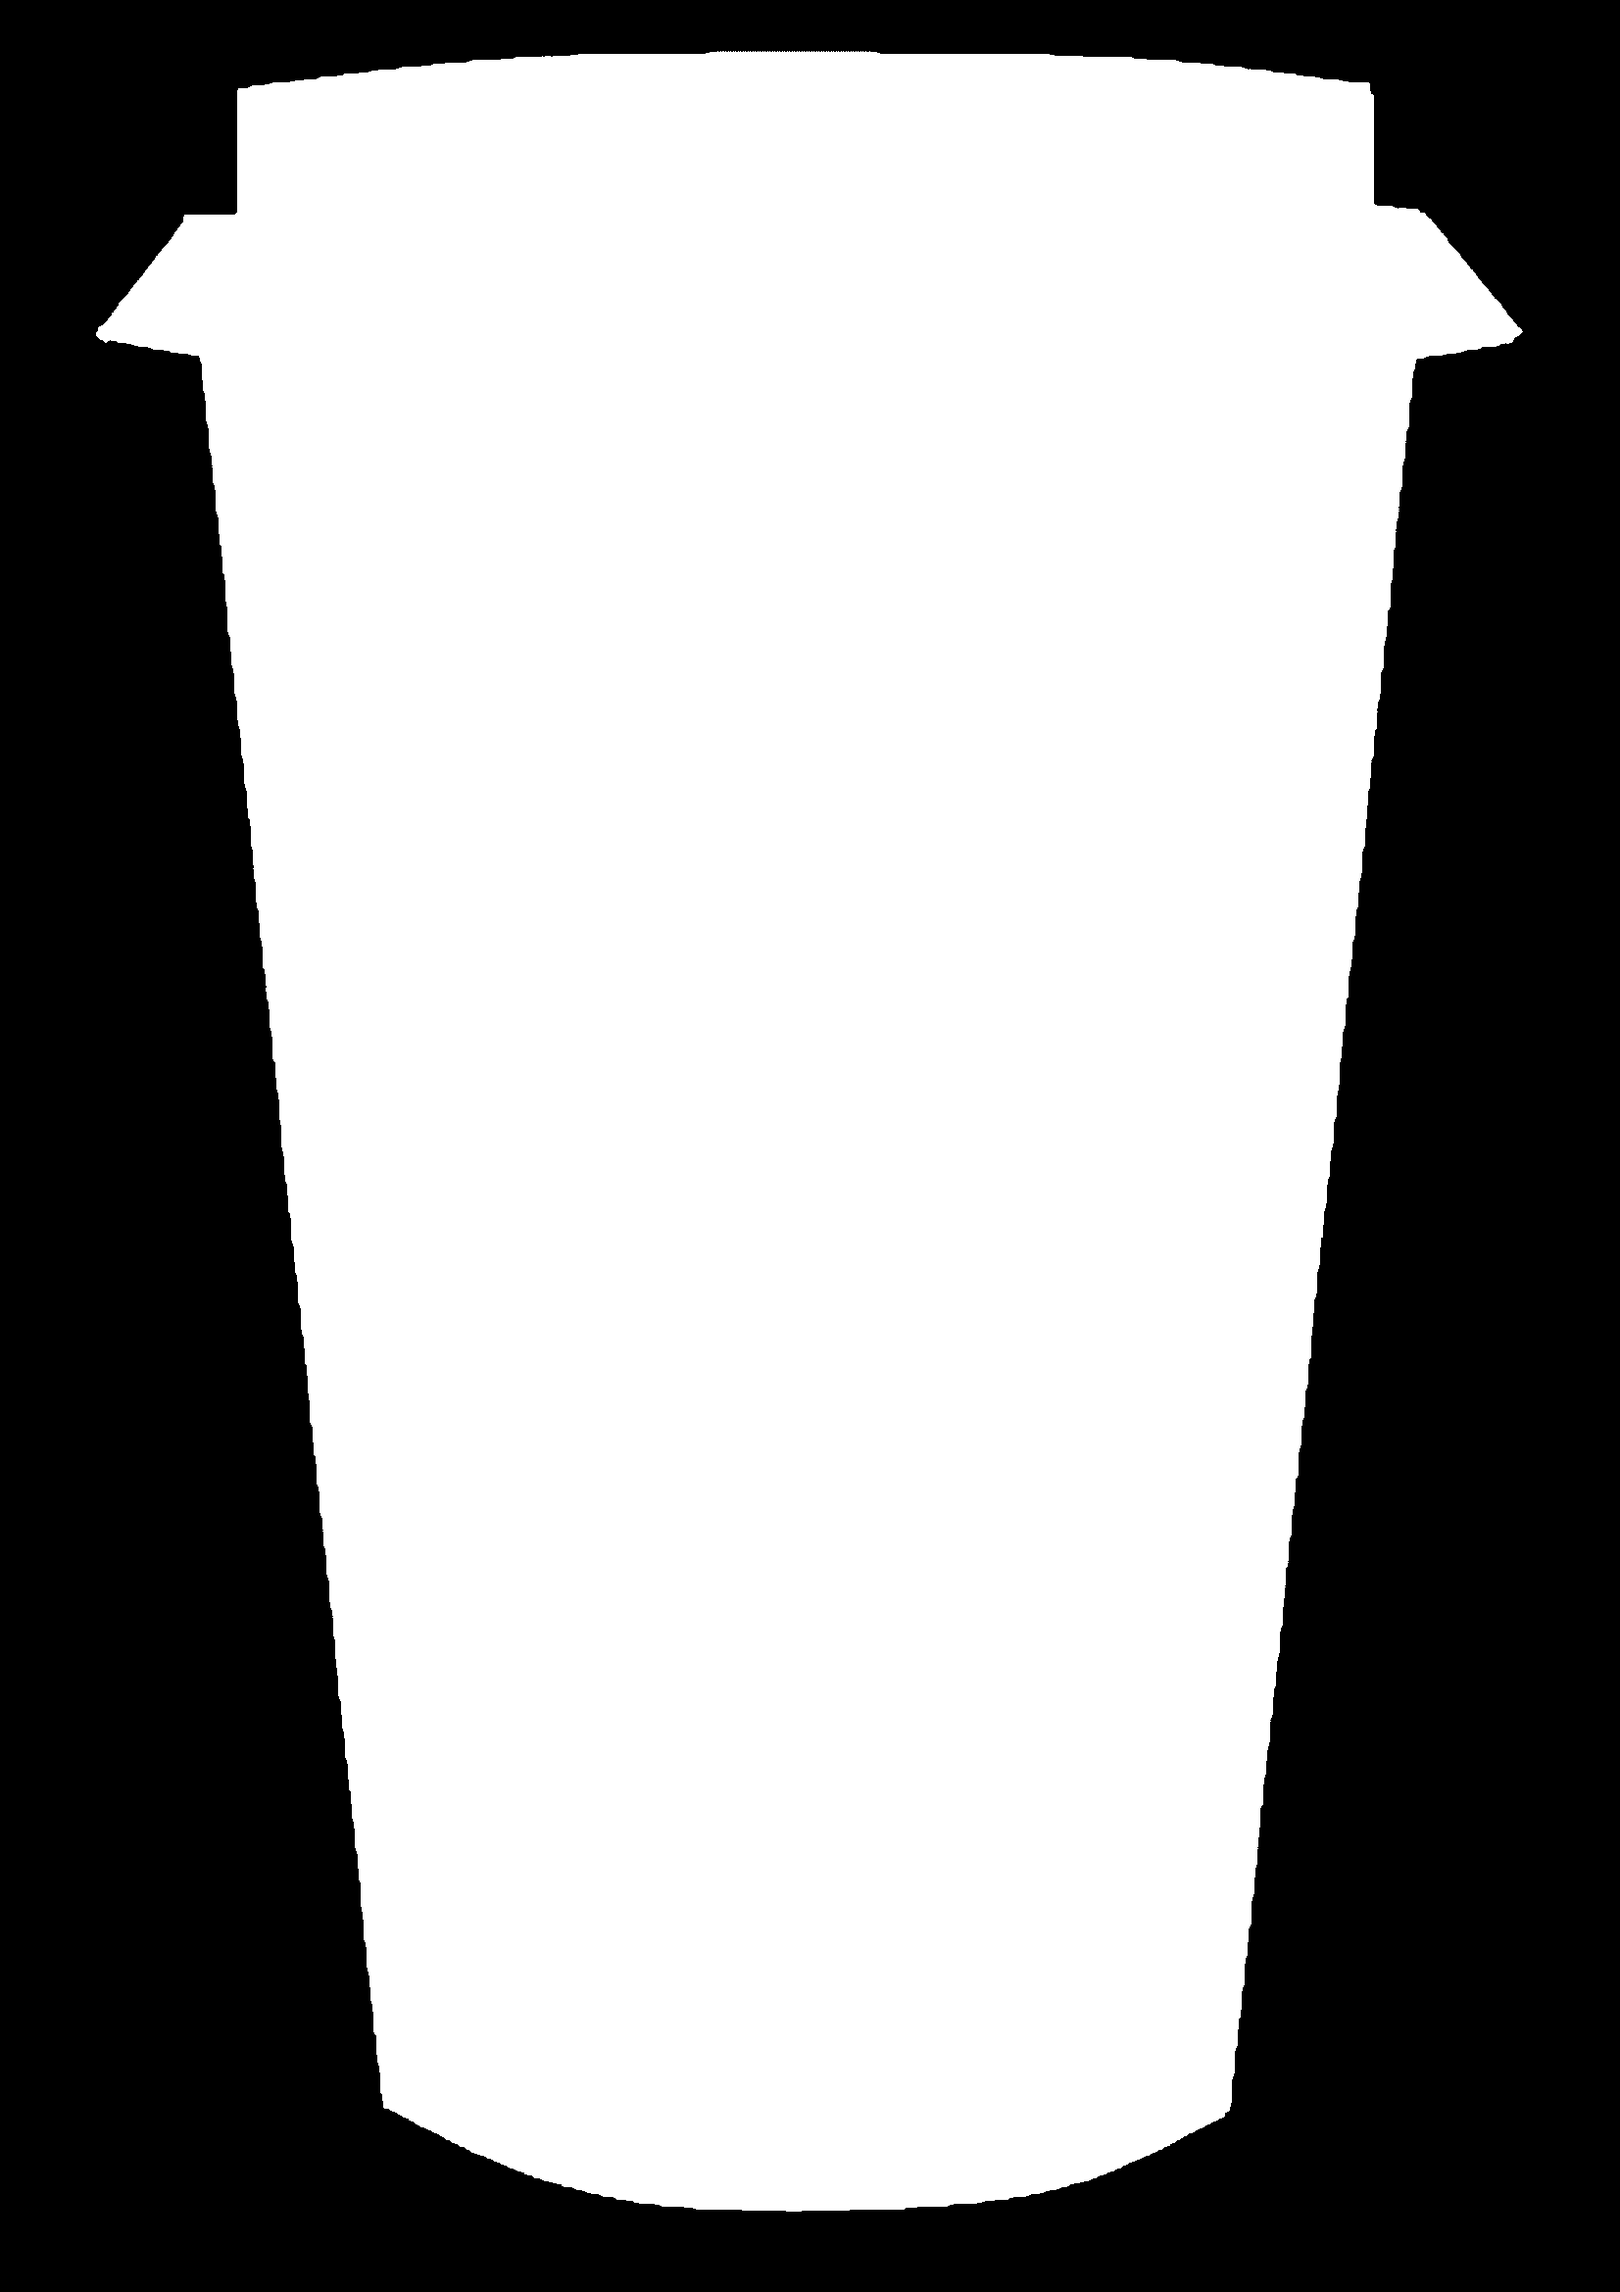
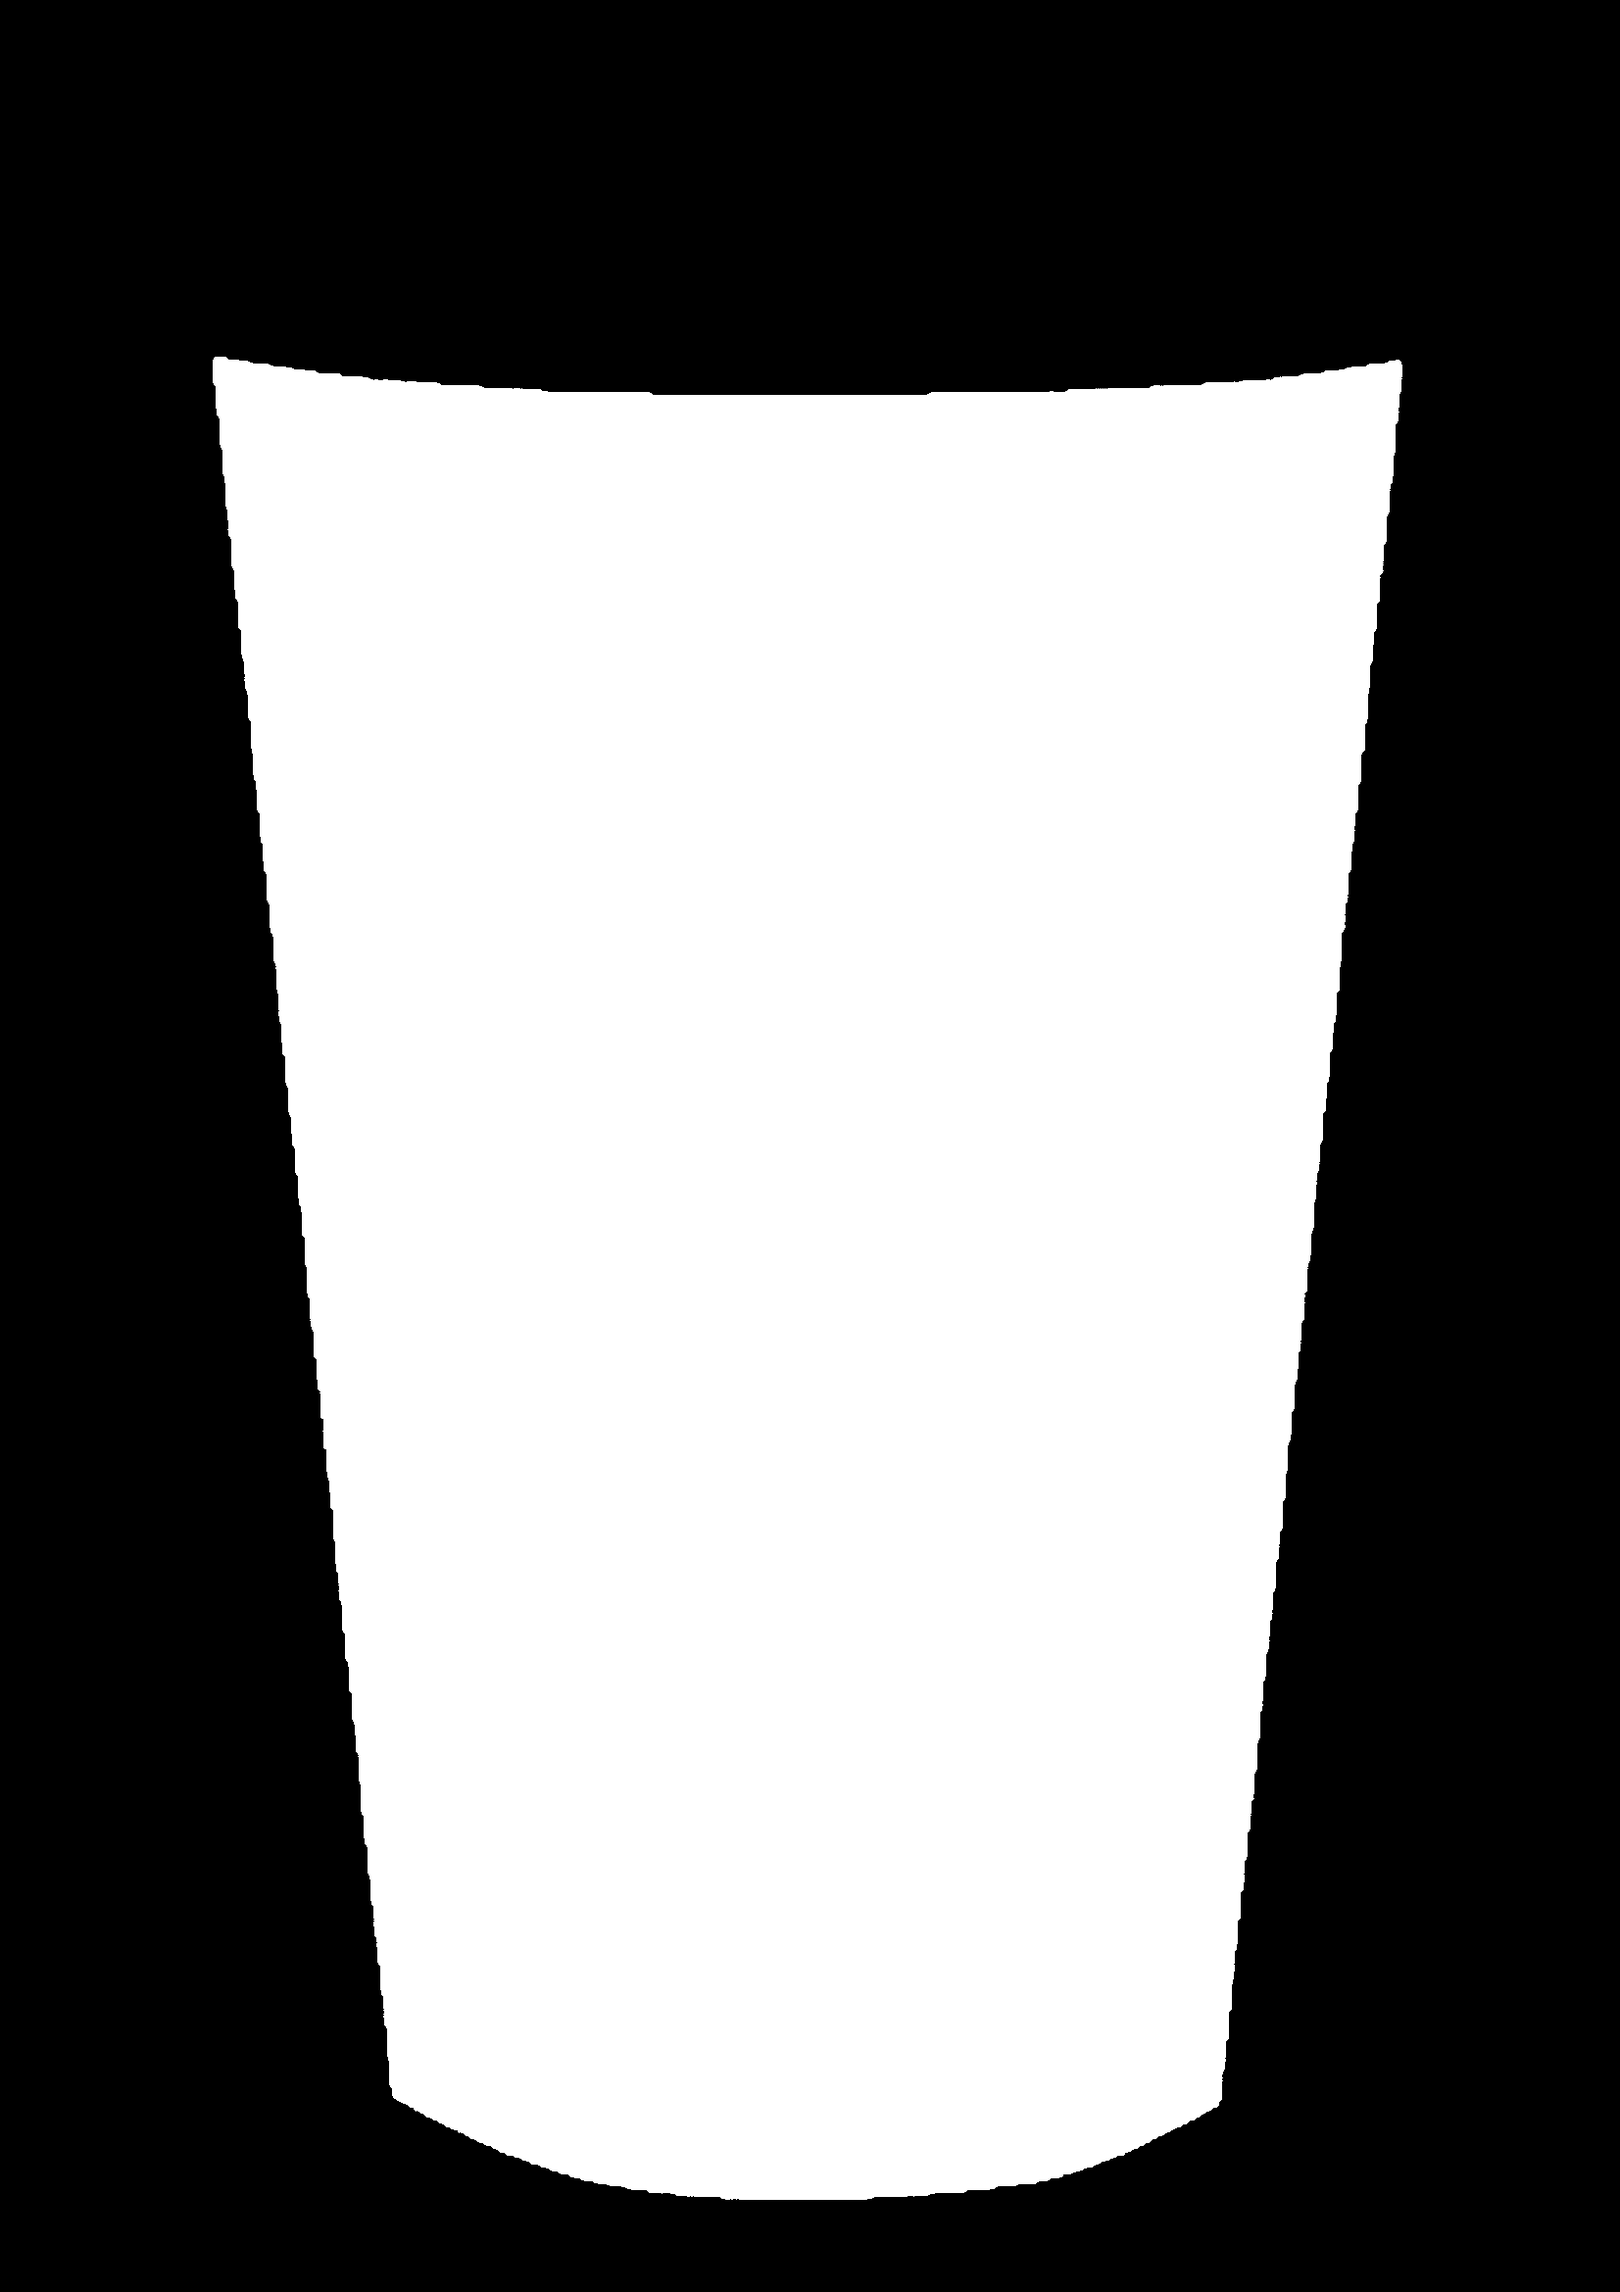
fixed colors

diff --git a/image_processing.py b/image_processing.py
@@ -66,14 +66,14 @@ def change_print_shade(image, item):
 def calculate_outline(item):
     img = cv2.imread(f"templates/{item}.png")
     gray = cv2.cvtColor(img, cv2.COLOR_BGR2GRAY)
-    mask = cv2.inRange(gray, 0, 100)
+    mask = cv2.inRange(gray, 0, 20)
 
     contours, _ = cv2.findContours(mask, cv2.RETR_LIST, cv2.CHAIN_APPROX_NONE)
-    x_threshold = 1457
+    y_threshold = 200
     filtered_contours = []
     for contour in contours:
         # Проверяем, чтобы все точки контура имели x меньше порога
-        if all(point[0][0] <= x_threshold for point in contour):
+        if all(point[0][1] >= y_threshold for point in contour):
             filtered_contours.append(contour)
 
     mask[:] = 0
@@ -93,7 +93,7 @@ def paste(image, color, pos, item, side, angle, bg_deleted=False):
         item = item + "_front"
     else:
         item = item + "_back"
-    template = Image.open(f"templates/{item}.png").convert("RGBA")
+    template = Image.open(f"templates/{item}.png").convert("RGB")
     mask = Image.open(f"templates/masks/mask_{item}.png")
     rgba_color = color + (255,)
     temporary_image = Image.new("RGBA", mask.size, rgba_color)
@@ -143,3 +143,9 @@ def json_to_image(arr):
 def print_remove_bg(image):
     img = rembg.remove(image)
     return img
+
+img = paste(None, (176, 37, 37), (0, 0), "cup", 0, 0)
+img.show()
+
+# mask = calculate_outline("cup_front")
+# mask.save(f"templates/masks/mask_cup_front.png", "PNG")
